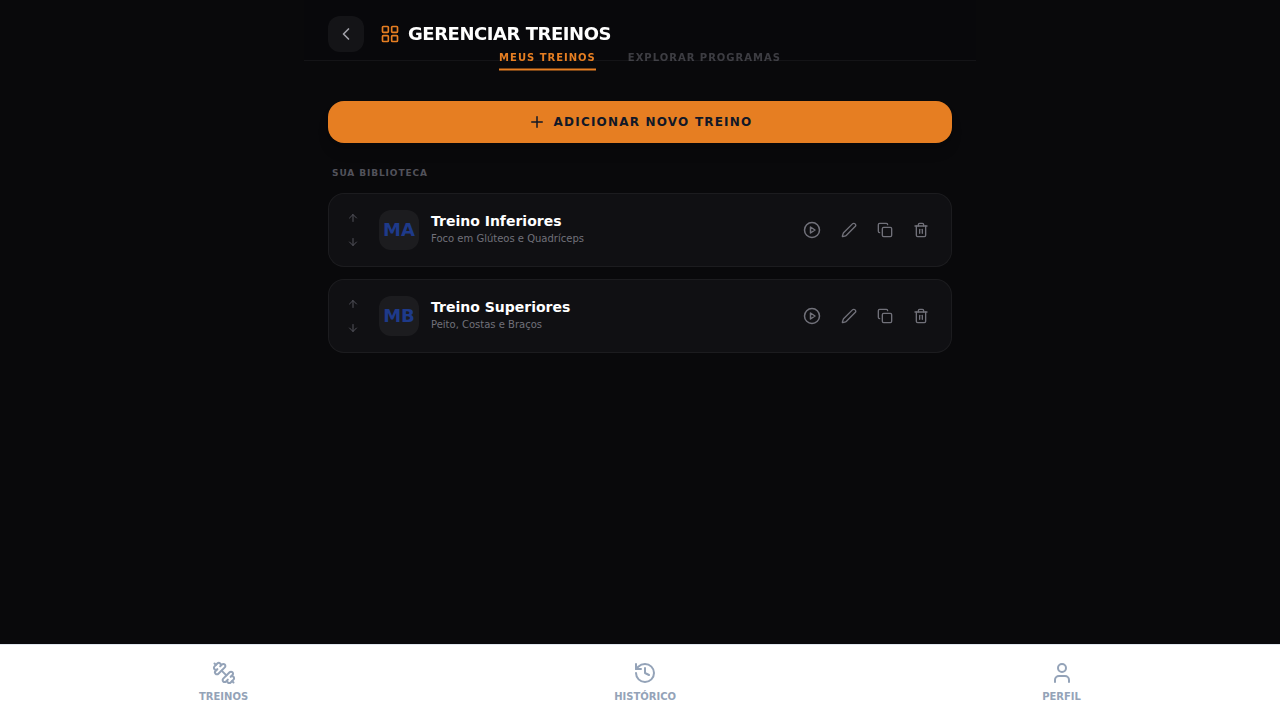
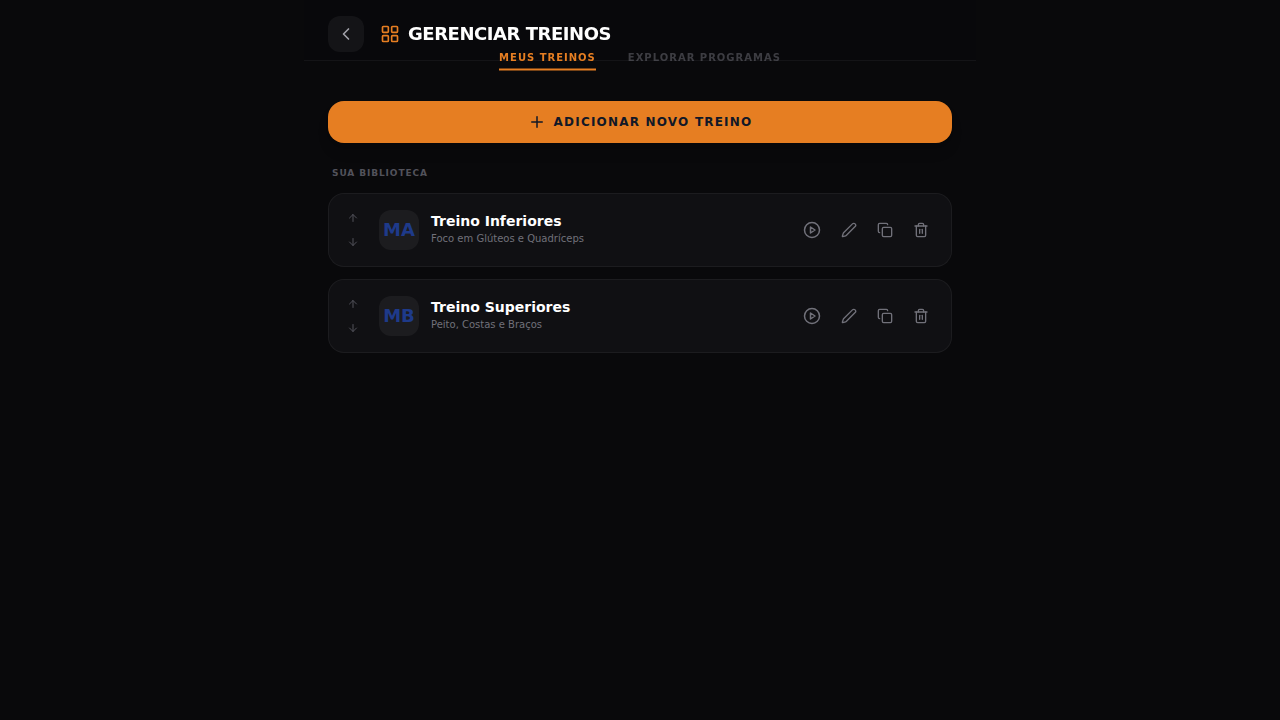
feat: implement geographic sliding page transitions and diving bottom menu
- Configured `PageTransition.jsx` to utilize `useState` to freeze the mount-time transition config.
- Implemented arithmetic direction calculations with `Math.sign` to slide tabs geographically.
- Wrapped `BottomNav` in `App.jsx` inside a `motion.div` to animate a smooth dive down (y: 100%) when entering level 4 internal screens, with pointer events handled correctly.

Changed region(s): [[0.0, 0.8861, 1.0, 1.0]]

diff --git a/frontend/src/components/PageTransition.jsx b/frontend/src/components/PageTransition.jsx
@@ -1,6 +1,8 @@
-import React from "react";
+import React, { useState } from "react";
 import { motion } from "framer-motion";
 import { useLocation } from "react-router-dom";
+
+let globalPrevLevel = 1;
 
 export const getRouteLevel = (pathname) => {
   if (pathname === "/app") return 1;
@@ -11,22 +13,31 @@ export const getRouteLevel = (pathname) => {
 
 const PageTransition = ({ children, bgClass = "bg-slate-50" }) => {
   const location = useLocation();
-  const level = getRouteLevel(location.pathname);
+  const [config] = useState(() => {
+    const currentLevel = getRouteLevel(location.pathname);
+    const prevLevel = globalPrevLevel;
+    // Calculo aritmetico de direcao usando Math.sign sem usar sinais de comparacao
+    const diff = currentLevel - prevLevel;
+    const direction = diff === 0 ? 1 : Math.sign(diff);
+    globalPrevLevel = currentLevel;
+    return {
+      level: currentLevel,
+      direction,
+      isOverlay: currentLevel === 4 || prevLevel === 4
+    };
+  });
 
-  // Telas de nivel 4 funcionam como um Overlay que desliza por cima de tudo
-  const isOverlay = level === 4;
-
-  const variants = isOverlay ? {
-    initial: { x: "100%", opacity: 1, zIndex: 50 },
-    animate: { x: 0, opacity: 1, zIndex: 50 },
-    exit: { x: "100%", opacity: 1, zIndex: 50 }
+  const variants = config.isOverlay ? {
+    initial: { x: "100%", zIndex: 50 },
+    animate: { x: 0, zIndex: 50 },
+    exit: { x: "100%", zIndex: 50 }
   } : {
-    initial: { opacity: 0, scale: 0.98, zIndex: 10 },
-    animate: { opacity: 1, scale: 1, zIndex: 10 },
-    exit: { opacity: 0, scale: 0.98, zIndex: 10 }
+    initial: { x: config.direction === 1 ? "100%" : "-100%", zIndex: 10 },
+    animate: { x: 0, zIndex: 10 },
+    exit: { x: config.direction === 1 ? "-100%" : "100%", zIndex: 10 }
   };
 
-  const duration = isOverlay ? 0.4 : 0.2;
+  const duration = config.isOverlay ? 0.8 : 0.3;
 
   return (
     <motion.div

diff --git a/frontend/src/App.jsx b/frontend/src/App.jsx
@@ -109,6 +109,7 @@ const AppContent = () => {
   const location = useLocation();
   const isTrainingRoute = location.pathname.startsWith("/treino");
   const currentLevel = getRouteLevel(location.pathname);
+  const isPublicRoute = ["/", "/login", "/privacy", "/terms"].includes(location.pathname);
 
   React.useEffect(() => {
     if (isTrainingRoute) {
@@ -211,7 +212,13 @@ const AppContent = () => {
         />
       </Routes>
       </AnimatePresence>
-      <BottomNav />
+      <motion.div
+        animate={{ y: currentLevel === 4 ? "100%" : "0%" }}
+        transition={{ type: "tween", ease: "easeInOut", duration: 0.8 }}
+        style={{ display: isPublicRoute ? "none" : "block" }}
+      >
+        <BottomNav />
+      </motion.div>
     </div>
   );
 };
